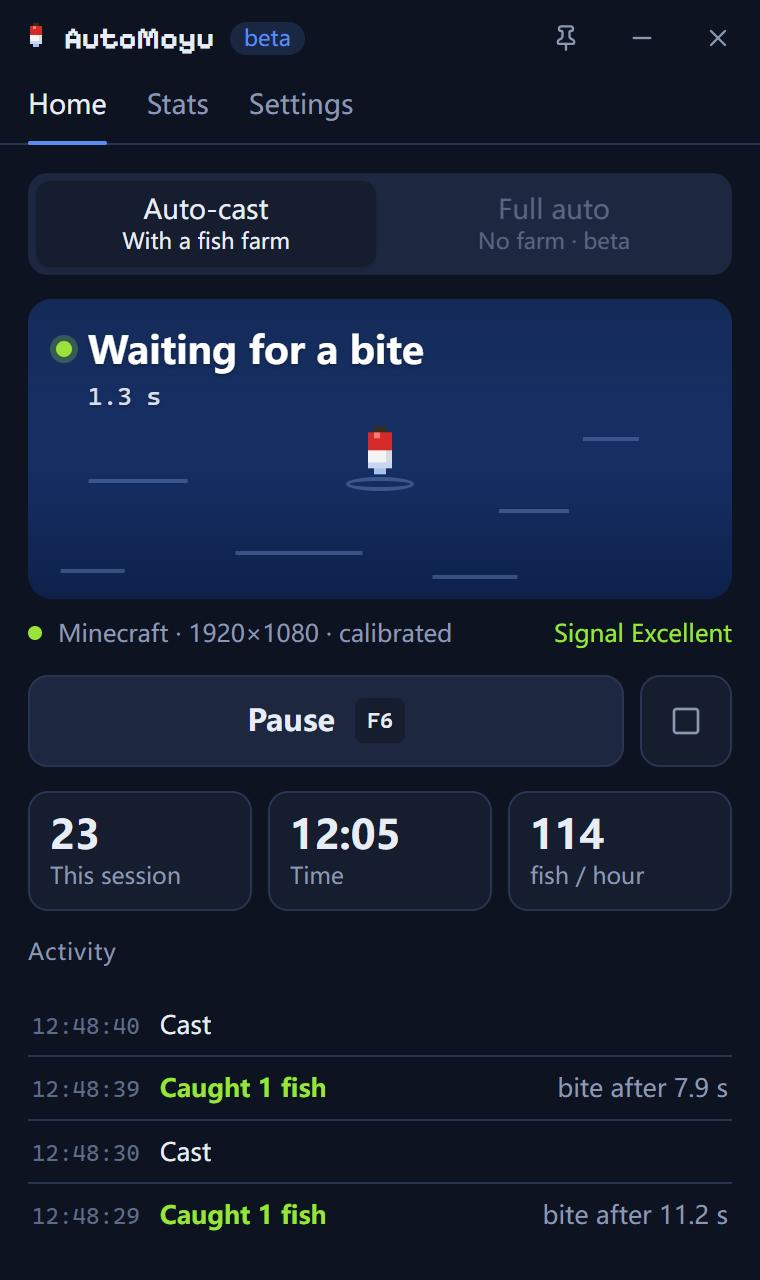
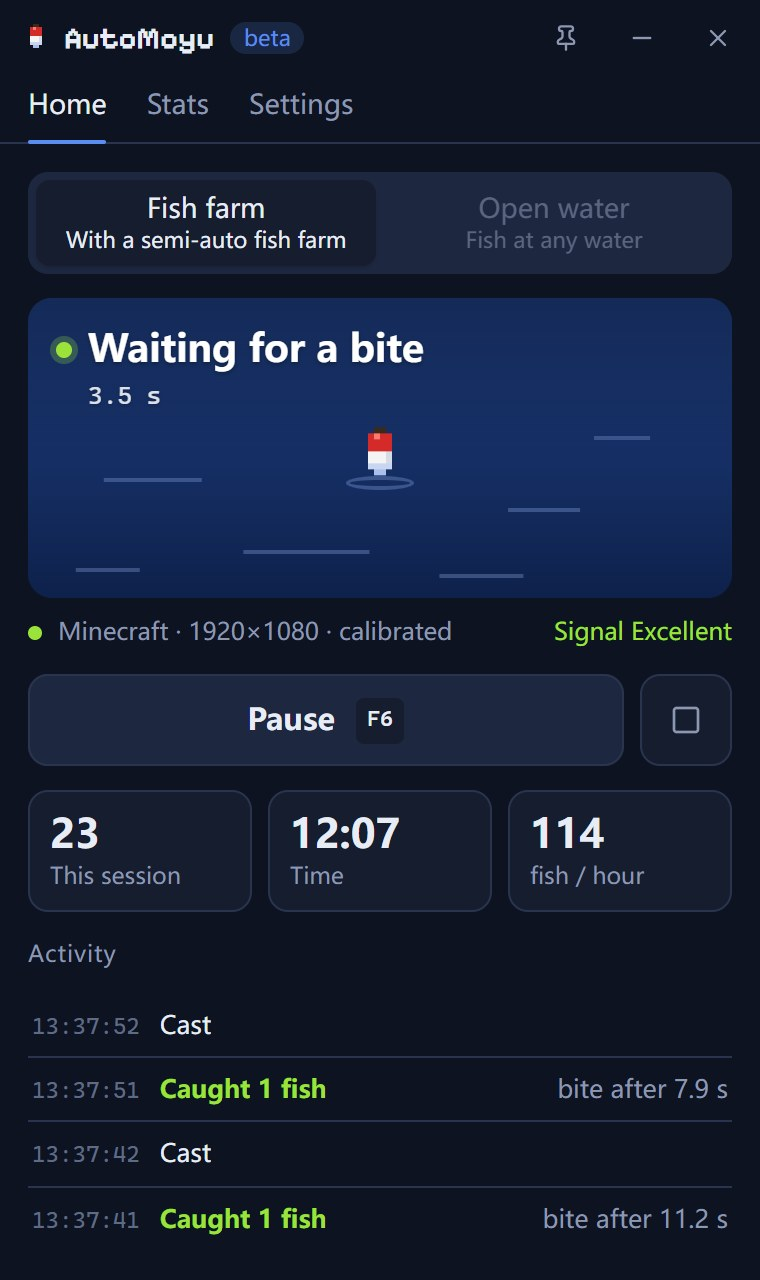
feat: name modes after where you fish (钓鱼机模式 / 野钓模式); drop the beta tag
Both modes are fully automatic with AutoMoyu, so naming them 自动甩竿 / 全自动
confused people. The modes are now named after the setup: a semi-auto fish farm,
or any open water. README notes spatial sound; home screenshots refreshed.

diff --git a/app/src/routes/Settings.tsx b/app/src/routes/Settings.tsx
@@ -7,6 +7,7 @@ import { Select, Switch, WindowPicker } from "../components/ui";
 import { api, openUrl, revealPath, saveDialog } from "../lib/api";
 import { t } from "../lib/i18n";
 import { useStore } from "../lib/store";
+import { modeName } from "../lib/text";
 import { checkForUpdate } from "../lib/updater";
 import type { AppInfo, AutoStopKind, Settings as S } from "../lib/types";
 
@@ -195,8 +196,8 @@ export function Settings() {
             disabled={running}
             onChange={(v) => p({ mode: v })}
             options={[
-              { value: "rodOnly", label: t("自动甩竿（有钓鱼机）", "Auto-cast (with a fish farm)") },
-              { value: "full", label: t("全自动（无钓鱼机）", "Full auto (no farm)") },
+              { value: "rodOnly", label: modeName("rodOnly") },
+              { value: "full", label: modeName("full") },
             ]}
           />
         </div>
@@ -455,7 +456,7 @@ export function Settings() {
               template: "bug_report.yml",
               title: t("[反馈] ", "[Bug] "),
               version: info?.version ?? "",
-              mode: s.mode === "full" ? t("全自动", "Full auto") : t("自动甩竿", "Auto-cast"),
+              mode: modeName(s.mode),
               window: status?.window ? `${status.window.w}x${status.window.h}` : t("未找到", "not found"),
             });
             void openUrl(`${REPO}/issues/new?${q}`);

diff --git a/app/src/routes/Home.tsx b/app/src/routes/Home.tsx
@@ -9,7 +9,7 @@ import { Note, WindowPicker } from "../components/ui";
 import { api } from "../lib/api";
 import { t } from "../lib/i18n";
 import { useStore } from "../lib/store";
-import { clock, feedLine, pauseText, qualityText, secs, stopText, timeOf } from "../lib/text";
+import { clock, feedLine, modeHint, modeName, pauseText, qualityText, secs, stopText, timeOf } from "../lib/text";
 import type { Mode, StatsView } from "../lib/types";
 
 export function Home() {
@@ -64,12 +64,12 @@ export function Home() {
       <UpdateBanner />
       <div className="seg" role="group" aria-label={t("模式", "Mode")}>
         <button aria-pressed={status?.mode === "rodOnly"} disabled={running} onClick={() => setMode("rodOnly")}>
-          {t("自动甩竿", "Auto-cast")}
-          <small>{t("有钓鱼机", "With a fish farm")}</small>
+          {modeName("rodOnly")}
+          <small>{modeHint("rodOnly")}</small>
         </button>
         <button aria-pressed={status?.mode === "full"} disabled={running} onClick={() => setMode("full")}>
-          {t("全自动", "Full auto")}
-          <small>{t("无钓鱼机 · 测试版", "No farm · beta")}</small>
+          {modeName("full")}
+          <small>{modeHint("full")}</small>
         </button>
       </div>
 

diff --git a/app/src/routes/Stats.tsx b/app/src/routes/Stats.tsx
@@ -6,7 +6,7 @@ import { BarChart } from "../components/BarChart";
 import { api, saveDialog } from "../lib/api";
 import { isEn, plural, t } from "../lib/i18n";
 import { useStore } from "../lib/store";
-import { fish, humanDuration } from "../lib/text";
+import { fish, humanDuration, modeName } from "../lib/text";
 import type { StatsView } from "../lib/types";
 
 const MONTHS = ["Jan", "Feb", "Mar", "Apr", "May", "Jun", "Jul", "Aug", "Sep", "Oct", "Nov", "Dec"];
@@ -149,7 +149,7 @@ export function Stats() {
                   {monthDay(d.getMonth() + 1, d.getDate())} {String(d.getHours()).padStart(2, "0")}:{String(d.getMinutes()).padStart(2, "0")}
                   <br />
                   <small>
-                    {r.mode === "full" ? t("全自动", "Full auto") : t("自动甩竿", "Auto-cast")} · {dur(r.activeMs)}
+                    {modeName(r.mode)} · {dur(r.activeMs)}
                     {r.source === "legacy" ? " · v0.1" : ""}
                   </small>
                 </span>

diff --git a/app/src/lib/text.ts b/app/src/lib/text.ts
@@ -2,7 +2,16 @@
 // 都是函数：语言切换后重新渲染就拿到新语言。
 
 import { plural, t } from "./i18n";
-import type { EngineEvent, Phase, PauseReason, Quality, StopReason } from "./types";
+import type { EngineEvent, Mode, Phase, PauseReason, Quality, StopReason } from "./types";
+
+// 两种模式都是全自动，只是钓的地方不同，所以按场景叫；说明写在哪钓，不写原理。
+export function modeName(m: Mode): string {
+  return m === "full" ? t("野钓模式", "Open water") : t("钓鱼机模式", "Fish farm");
+}
+
+export function modeHint(m: Mode): string {
+  return m === "full" ? t("对着任意水面钓", "Fish at any water") : t("配合半自动钓鱼机", "With a semi-auto fish farm");
+}
 
 export function phaseText(p: Phase): string {
   switch (p) {

diff --git a/app/src/routes/Calibrate.tsx b/app/src/routes/Calibrate.tsx
@@ -141,8 +141,8 @@ export function Calibrate() {
             {status?.mode === "full" && (
               <span className="fine">
                 {t(
-                  "全自动还会听咬钩的水花声：游戏「音效」音量别调到 0，音乐可以关掉。",
-                  "Full auto also listens for the bite splash: keep the game's sound effects volume above 0 (music can be off).",
+                  "野钓模式要靠咬钩的水花声收竿：游戏「音效」音量别调到 0，音乐可以关掉。",
+                  "In open water mode AutoMoyu reels in on the bite splash: keep the game's sound effects volume above 0 (music can be off).",
                 )}
               </span>
             )}

diff --git a/README.en.md b/README.en.md
@@ -15,9 +15,9 @@ An auto-fishing tool for Minecraft Bedrock Edition on Windows. It watches the fi
 
 ## Features
 
-- **Two modes**
-  - Auto-cast: for use with a semi-automatic fish farm. The farm reels in, AutoMoyu casts again.
-  - Full auto (beta): no farm needed. Face the water; AutoMoyu reels in when it hears a bite, then casts again.
+- **Two modes**, both fully automatic; pick by where you fish
+  - Fish farm: for use with a semi-automatic fish farm. The farm reels in, AutoMoyu casts again.
+  - Open water: no farm needed. Face any water; AutoMoyu reels in when it hears a bite, then casts again.
 - **No region picking, no thresholds to tune.** The first time you use it, AutoMoyu calibrates itself in about 10 seconds. Each window size only needs to be calibrated once.
 - Recognises the rod by day, at night and in rain, and adjusts as the light changes at dusk and dawn.
 - On laggy servers the cast often jumps back before going out again. AutoMoyu tells this apart from a real reel-in and doesn't cast twice.
@@ -43,7 +43,7 @@ AutoMoyu checks for updates by itself. It won't interrupt you while fishing; onc
 
 ## Usage
 
-1. Start the game and hold a fishing rod. With a fish farm, stand where the farm expects you. For full auto, aim at the water.
+1. Start the game and hold a fishing rod. In fish farm mode, stand where the farm expects you. In open water mode, aim at the water.
 2. AutoMoyu opens calibration on first launch. Switch to the game and press **F6**. It casts twice by itself; don't move the mouse until it's done.
 3. Press **F6** to start fishing and again to pause. **F7** shows or hides the in-game overlay.
 
@@ -52,7 +52,8 @@ Keep the game window in front while it runs. Switching to another window pauses 
 For steadier detection:
 
 - Turn off View Bobbing in the game settings and don't use shaders.
-- Full auto relies on sound, so keep the game's sound effects volume above 0. Music can be off, and your own music or voice chat won't get in the way.
+- In open water mode, bites are detected by sound, so keep the game's sound effects volume above 0. Music can be off, and your own music or voice chat won't get in the way.
+- Turn off Windows spatial sound (Dolby Atmos, Windows Sonic and so on). With it on, AutoMoyu has to record all system audio instead, and sounds from other apps may trigger a false reel.
 
 ## FAQ
 
@@ -67,6 +68,10 @@ Usually you aren't holding a fishing rod, or there's no water in front of you. F
 **"Can't recognise the rod"**
 
 Usually the inventory or a menu is open. Close it and AutoMoyu carries on. If it keeps happening, recalibrate under Settings → Fishing.
+
+**"Spatial sound is on"**
+
+In Windows Settings → System → Sound, open your output device's properties and set Spatial sound to Off. The "Sound settings" button in the notice opens that page. The notice goes away once it's off.
 
 **"High server lag makes the cast jump back; adjusted automatically"**
 
@@ -83,7 +88,7 @@ Go to Settings → Advanced → Export diagnostics, then [open an issue](https:/
 ## How it works
 
 - **Rod state**: during calibration AutoMoyu casts twice and records what the screen looks like with the rod reeled in and cast out. It then picks the area near the held rod or the hotbar where the two look most different. While running it captures that area 15 times a second and checks which of the two it's closer to.
-- **Bite detection** (full auto): it records only Minecraft's own audio through WASAPI process loopback. A bite splash is a sustained burst of broadband noise; AutoMoyu looks at its loudness and duration, so the short sounds of a fish swimming up don't count as a bite.
+- **Bite detection** (open water mode): it records only Minecraft's own audio through WASAPI process loopback. A bite splash is a sustained burst of broadband noise; AutoMoyu looks at its loudness and duration, so the short sounds of a fish swimming up don't count as a bite, and tonal sounds such as cats meowing are ignored too.
 - **Clicking**: right-clicks are simulated with Windows `SendInput`, and by default only when the game is the foreground window.
 
 Everything runs locally. The only network access is the update check.

diff --git a/CHANGELOG.md b/CHANGELOG.md
@@ -5,6 +5,16 @@
 
 ## [未发布]
 
+- 模式改叫「钓鱼机模式」和「野钓模式」，按在哪钓来选；去掉了「测试版」标记
+- 系统开了空间音效（Dolby Atmos 等）时，首页会提示并给出「声音设置」按钮；这时改录整机声音，咬钩照样能听到
+- 猫叫等动物叫声不再被当成咬钩
+
+**English**
+
+- The modes are now called "Fish farm" and "Open water", named after where you fish; the "beta" tag is gone
+- When Windows spatial sound (Dolby Atmos etc.) is on, the home page says so and offers a "Sound settings" button; AutoMoyu then records system-wide audio so bites are still heard
+- Cats meowing and other animal calls no longer count as bites
+
 ## [1.0.0-beta.2] - 2026-10-07
 
 - 更新提示里加了「完整更新说明」链接，说明太长被截断时可以点开看全文
